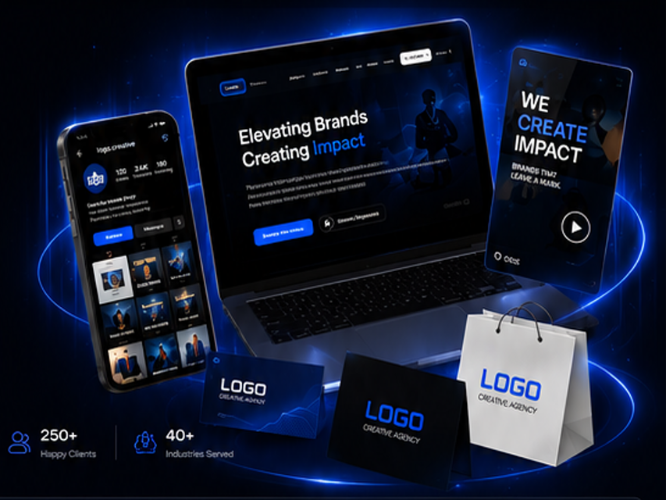
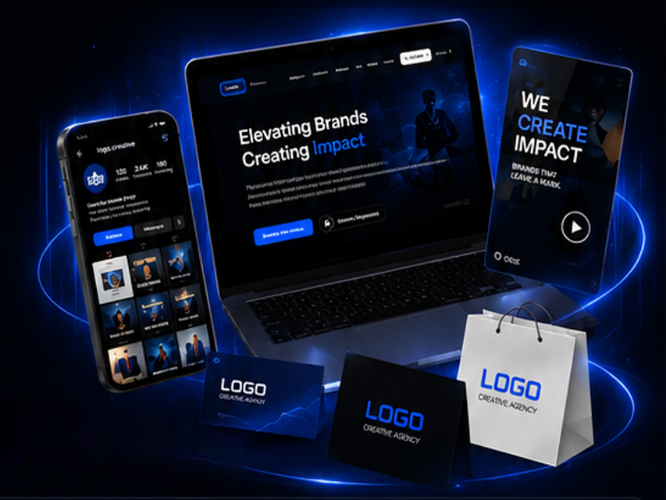
filter remove in brands page

Changed region(s): [[0.1802, 0.84, 0.3604, 0.93], [0.0, 0.84, 0.1502, 0.93]]

diff --git a/assets/style.css b/assets/style.css
@@ -730,7 +730,8 @@
   /* Column Headings Layout */
   .footer_heading {
       font-weight: 700;
-      color: #fff;
+      color: #5ec9ff;
+      /* color: #fff; */
       margin-bottom: 1rem;
       font-size: 0.95rem;
   }
@@ -3763,6 +3764,7 @@
       gap: 1rem;
       padding: 1.35rem 1.2rem;
       min-height: 100%;
+    
   }
 
   .services-stat-item+.services-stat-item {
@@ -4052,7 +4054,9 @@
 
   @media (max-width: 767.98px) {
       .services-hero-title {
-          font-size: clamp(2.35rem, 11vw, 3.4rem);
+          /* font-size: clamp(2.35rem, 11vw, 3.4rem); */
+          font-size: 36px;
+
       }
 
       .services-hero-text {
@@ -6287,7 +6291,7 @@
   .achievement-journey-grid::before {
       content: '';
       position: absolute;
-      left: 4.5%;
+      /* left: 4.5%; */
       right: 4.5%;
       top: 2.9rem;
       border-top: 2px dotted rgba(36, 107, 255, 0.35);
@@ -6298,6 +6302,10 @@
       z-index: 1;
       text-align: center;
       padding: 0.2rem 0.55rem 0;
+      border:2px solid #246bff ;
+      border-radius: 15px ;
+      /* background:pink; */
+      padding:20px;
   }
 
   .achievement-journey-icon {

diff --git a/footer.php b/footer.php
@@ -3,7 +3,7 @@
         <div class="row g-4">
 
             <!-- Column 1: Logo & About -->
-            <div class="col-12 col-md-6 col-lg-2 pe-lg-4 footer_col_border">
+            <div class="col-12 col-md-6 col-lg-3 pe-lg-4 footer_col_border">
                 <div class="footer_logo">
                     <!-- <h2>LOGO</h2> -->
                      <img src="./assets/img/logo.webp" alt="logo"  style="width: 150px; height: auto;">
@@ -24,7 +24,7 @@
             </div>
 
             <!-- Column 2: Quick Links -->
-            <div class="col-6 col-md-3 col-lg-2 footer_col_border">
+            <div class="col-6 col-md-3 col-lg-3 footer_col_border">
                 <h6 class="footer_heading">Quick Links</h6>
                 <ul class="list-unstyled footer_links_list">
                     <li><a href="index.php">Home</a></li>
@@ -39,7 +39,7 @@
             </div>
 
             <!-- Column 3: Services -->
-            <div class="col-6 col-md-3 col-lg-2 footer_col_border">
+            <div class="col-6 col-md-3 col-lg-3 footer_col_border">
                 <h6 class="footer_heading">Services</h6>
                 <ul class="list-unstyled footer_links_list">
                     <li><a href="branding.php">Branding</a></li>
@@ -77,19 +77,19 @@
             </div>
 
             <!-- Column 5: Newsletter -->
-            <div class="col-12 col-md-6 col-lg-3 footer_newsletter_responsive">
+            <!-- <div class="col-12 col-md-6 col-lg-3 footer_newsletter_responsive">
                 <h6 class="footer_heading">Newsletter</h6>
                 <p class="footer_newsletter_desc">
                     Stay updated with our latest news and offers.
                 </p>
-                <!-- Newsletter Input Box -->
+               
                 <div class="footer_input_wrapper">
                     <input type="email" class="form-control" placeholder="Enter your email">
                     <button class="btn" type="button">
                         <i class="bi bi-arrow-right-short"></i>
                     </button>
                 </div>
-            </div>
+            </div> -->
 
         </div>
 

diff --git a/achievement.php b/achievement.php
@@ -173,28 +173,28 @@
 
                 <article class="achievement-journey-card">
                     <div class="achievement-journey-icon"><i class="bi bi-rocket-takeoff"></i></div>
-                    <span class="achievement-journey-year">2020</span>
+                    <span class="achievement-journey-year">2021</span>
                     <h3>Going Digital</h3>
                     <p>Strengthened our digital services and delivered impactful campaigns.</p>
                 </article>
 
                 <article class="achievement-journey-card">
                     <div class="achievement-journey-icon"><i class="bi bi-star"></i></div>
-                    <span class="achievement-journey-year">2021</span>
+                    <span class="achievement-journey-year">2023</span>
                     <h3>Rising Higher</h3>
                     <p>Achieved 500+ successful projects and multiple industry recognitions.</p>
                 </article>
 
                 <article class="achievement-journey-card">
                     <div class="achievement-journey-icon"><i class="bi bi-globe"></i></div>
-                    <span class="achievement-journey-year">2022</span>
+                    <span class="achievement-journey-year">2025</span>
                     <h3>Wider Impact</h3>
                     <p>Partnered with global brands and served clients across multiple industries.</p>
                 </article>
 
                 <article class="achievement-journey-card">
                     <div class="achievement-journey-icon"><i class="bi bi-target"></i></div>
-                    <span class="achievement-journey-year">2024+</span>
+                    <span class="achievement-journey-year">2026</span>
                     <h3>Future Ready</h3>
                     <p>Continuing to innovate, create and deliver results that make a difference.</p>
                 </article>
